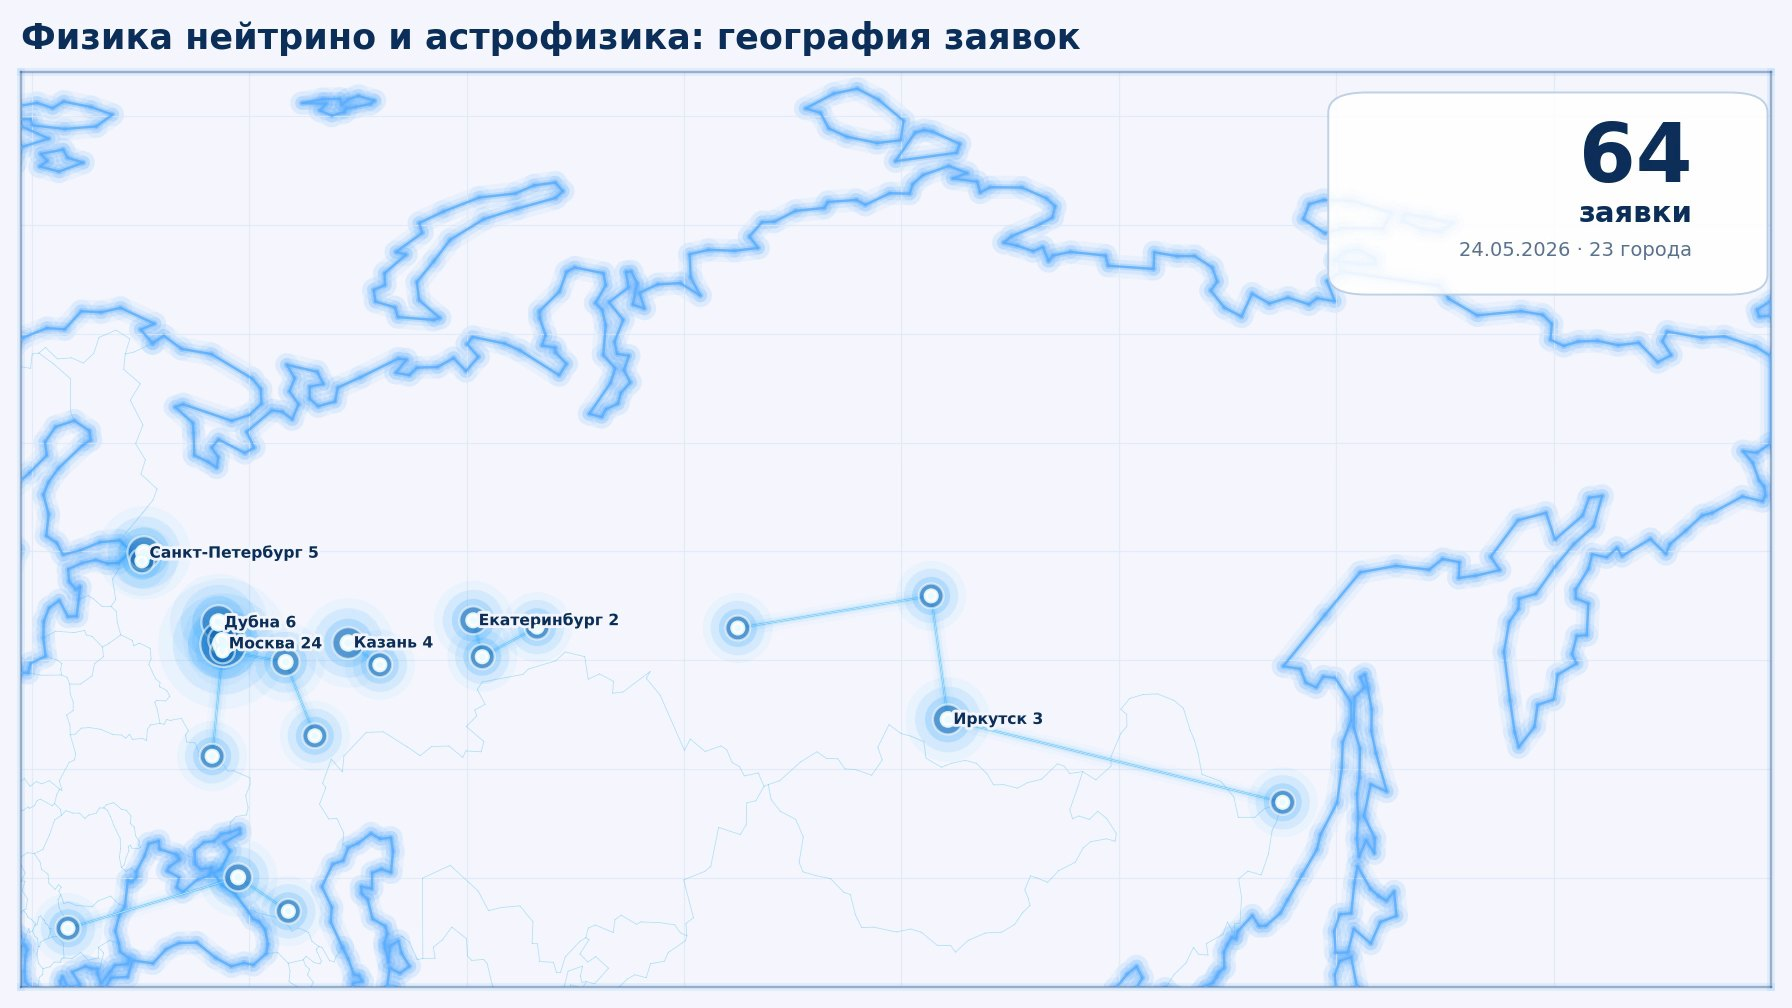
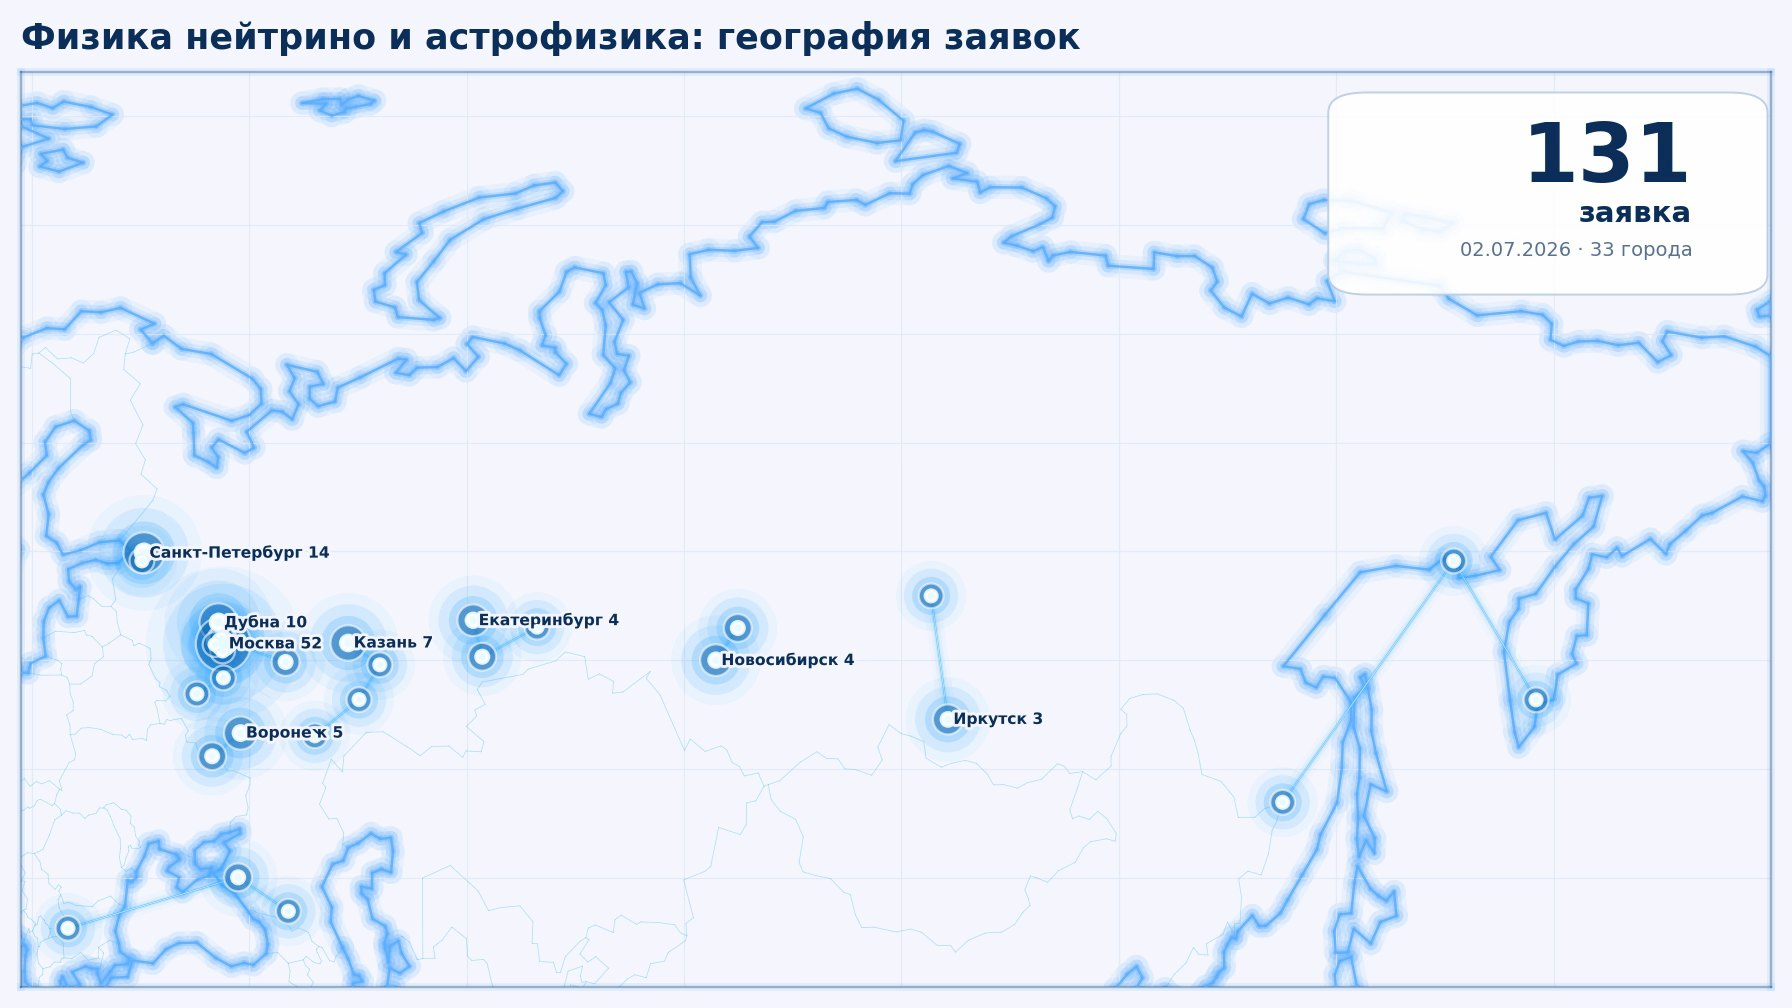
Use final frame as Teach-in map poster

diff --git a/scripts/update_teachin_applications_map.py b/scripts/update_teachin_applications_map.py
@@ -37,7 +37,7 @@ def parse_args() -> argparse.Namespace:
     parser.add_argument("--hold-last", type=int, default=10)
     parser.add_argument("--label-top", type=int, default=8)
     parser.add_argument("--network-neighbors", type=int, default=1)
-    parser.add_argument("--poster-time", default="7")
+    parser.add_argument("--poster-time", default="last", help="Poster frame time in seconds, or 'last'.")
     parser.add_argument("--reauth", action="store_true", help="Force a new local OAuth browser flow.")
     parser.add_argument("--stage", action="store_true", help="git add the updated MP4 and poster.")
     parser.add_argument("--dry-run", action="store_true", help="Print the gTracker command without running it.")
@@ -73,10 +73,11 @@ def make_poster(mp4: Path, poster: Path, *, poster_time: str) -> None:
     poster.parent.mkdir(parents=True, exist_ok=True)
     with tempfile.TemporaryDirectory(prefix="teachin-map-poster-") as tmp:
         png = Path(tmp) / "poster.png"
-        subprocess.run(
-            [ffmpeg, "-y", "-ss", poster_time, "-i", str(mp4), "-frames:v", "1", "-update", "1", str(png)],
-            check=True,
-        )
+        if poster_time.lower() == "last":
+            cmd = [ffmpeg, "-y", "-sseof", "-1", "-i", str(mp4), "-frames:v", "1", "-update", "1", str(png)]
+        else:
+            cmd = [ffmpeg, "-y", "-ss", poster_time, "-i", str(mp4), "-frames:v", "1", "-update", "1", str(png)]
+        subprocess.run(cmd, check=True)
         Image.open(png).convert("RGB").save(poster, quality=86, optimize=True)
 
 
